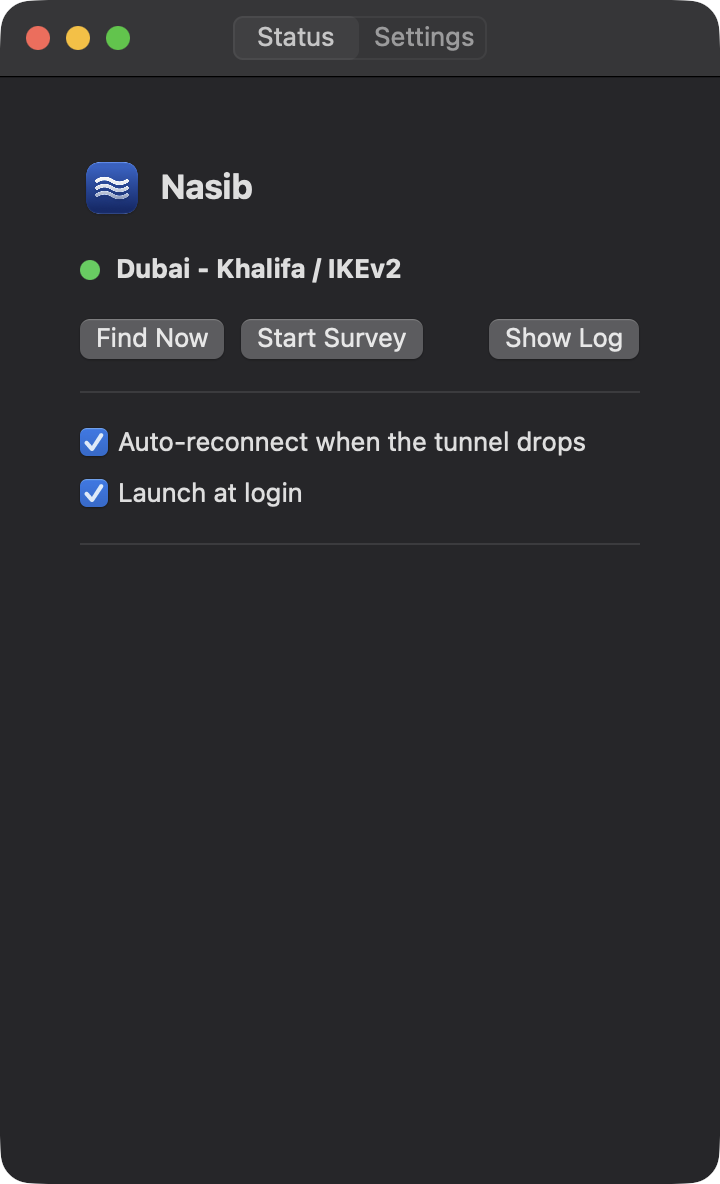
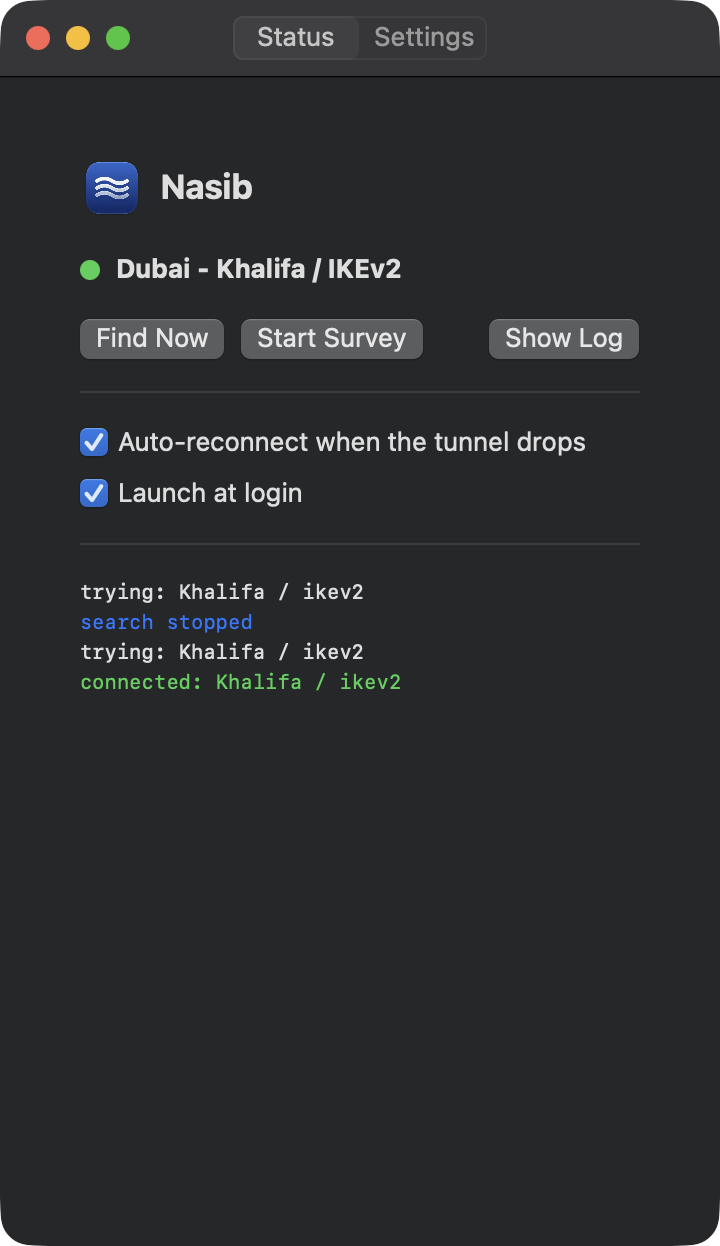
docs: document Stop, tooltips, colors and anti-censorship settings
Also describes the target networks without naming a country.

diff --git a/README.md b/README.md
@@ -12,8 +12,8 @@ Nasib (نصیب, roughly "your share") lives in the macOS menu bar. It finds a W
 protocol that actually carries traffic right now, connects to it, and does it again when the tunnel
 dies.
 
-It was written for Iran, where the server that works changes by the hour, and trying them one by one
-in the Windscribe app takes longer than the connection lasts.
+It's for heavily filtered networks, where the server that works changes by the hour, and trying them
+one by one in the Windscribe app takes longer than the connection lasts.
 
 <p align="center">
   <img src="docs/images/status.png" width="360" alt="Status tab: connected to Dubai over IKEv2, with Find Now, Start Survey and Show Log buttons">
@@ -30,7 +30,7 @@ in the Windscribe app takes longer than the connection lasts.
    attempts. The last pair that worked always goes first.
 4. **Gives each attempt 10 seconds**, not the 40-odd the Windscribe CLI waits on its own.
 5. **Counts a connection only when a blocked site loads through it.** Windscribe reporting
-   "Connected" isn't enough; here that often happens with nothing getting through.
+   "Connected" isn't enough; on a filtered network that often happens with nothing getting through.
 
 ## Install
 
@@ -48,20 +48,32 @@ xattr -dr com.apple.quarantine /Applications/Nasib.app
 Move the app to where it will stay before turning on Launch at login. The login item points at the
 app's current location.
 
+### Set Windscribe's anti-censorship options yourself
+
+Windscribe's Anti-Censorship preferences (Protocol Tweaks, the Amnezia config and Server Routing) can't
+be changed from its command-line tool, so Nasib can't set them. It uses whatever the Windscribe app has.
+On a heavily filtered network, open Windscribe's preferences once, go to Anti-Censorship, turn on
+Protocol Tweaks and pick the Amnezia config that matches your network.
+
 ## Using it
 
 The waves in the menu bar are solid when connected, dashed while searching, and crossed out when
-down. Clicking them gives you the current server, Open Nasib, Find Now and Quit. Closing the window
-doesn't quit the app.
+down. Clicking them gives you the current server, Open Nasib, Find Now, About and Quit. Closing the
+window doesn't quit the app.
 
-- **Find Now** runs one search and stops at the first pair that works.
+- **Find Now** runs one search and stops at the first pair that works. While it runs, the button
+  reads **Stop**, which ends the search and disconnects.
 - **Start Survey** tries every datacenter on every protocol and records each result without stopping
-  at a success. It's slow, and it's how the rankings get refreshed. Stopping it puts you back on the
-  last pair that worked.
+  at a success. It's slow, and it's how the rankings get refreshed. **Stop Survey** ends it and puts
+  you back on the last pair that worked.
 - **Auto-reconnect** checks the tunnel and a blocked site once a minute, and searches only when one of
   them fails.
 - **Settings** holds the cities to search, one per line as Windscribe spells them, and which
   protocols to try in which order. An empty city list means every city.
+
+Every button and toggle explains itself in one line when you hover over it. The pane under the
+toggles shows what the engine is doing, colored by kind: green when it connects, gray for an attempt
+that failed, orange when the tunnel drops, and red only when nothing works.
 
 You get a notification when it connects, when the tunnel drops, and when nothing works.
 
